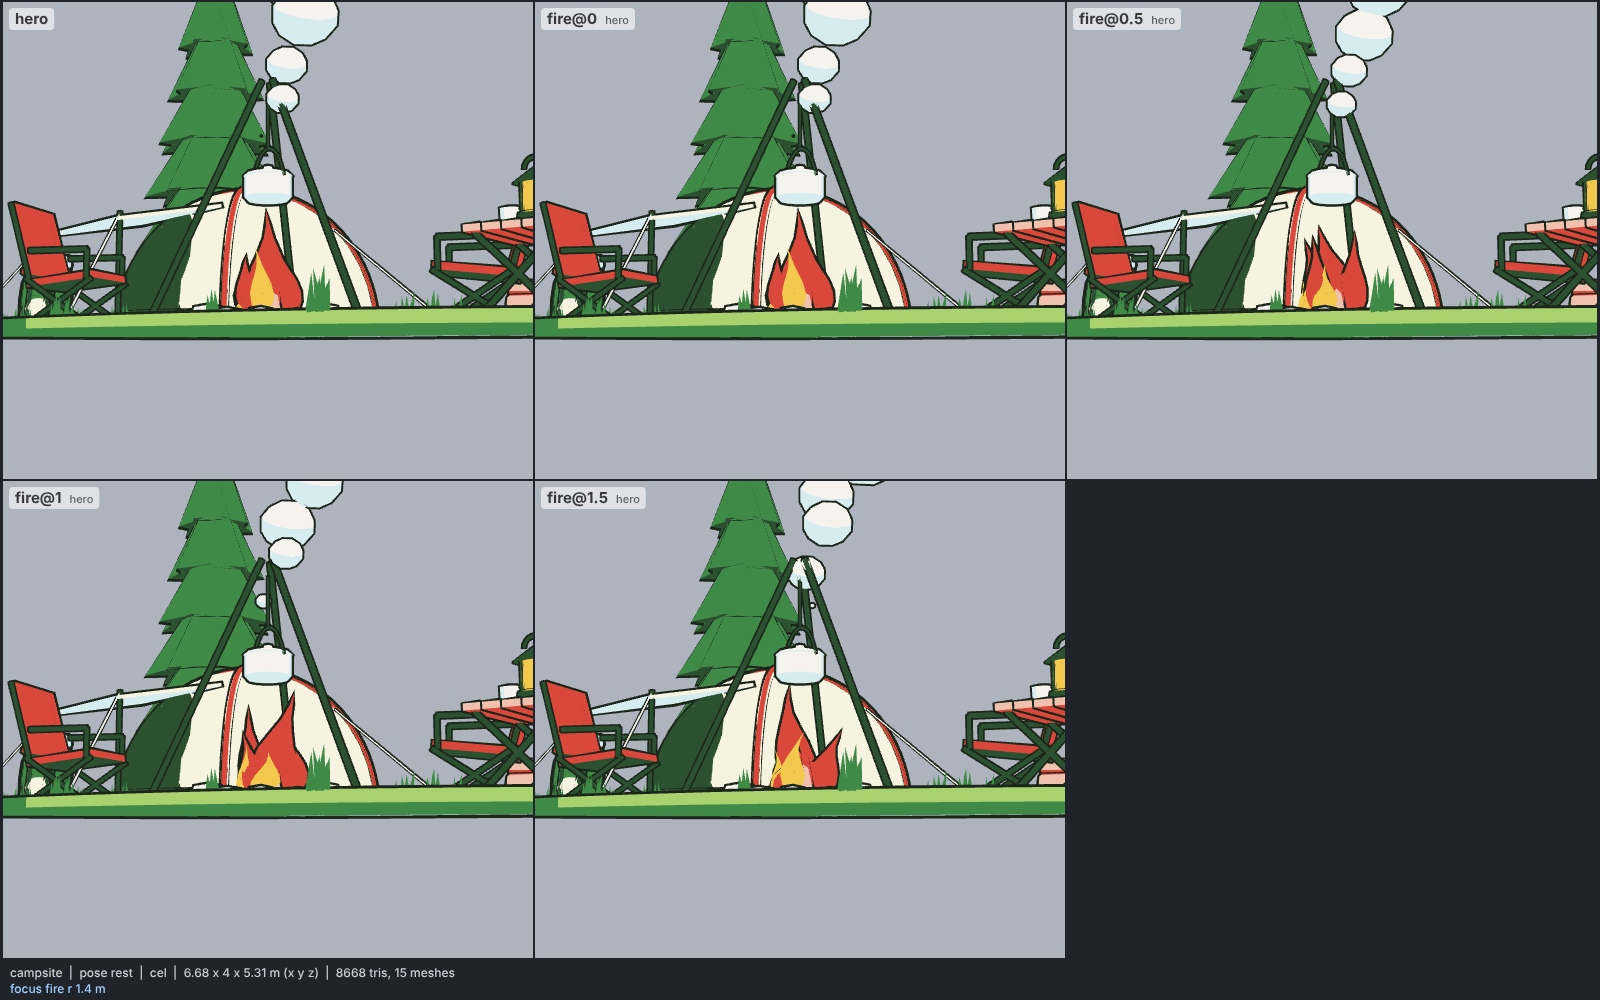
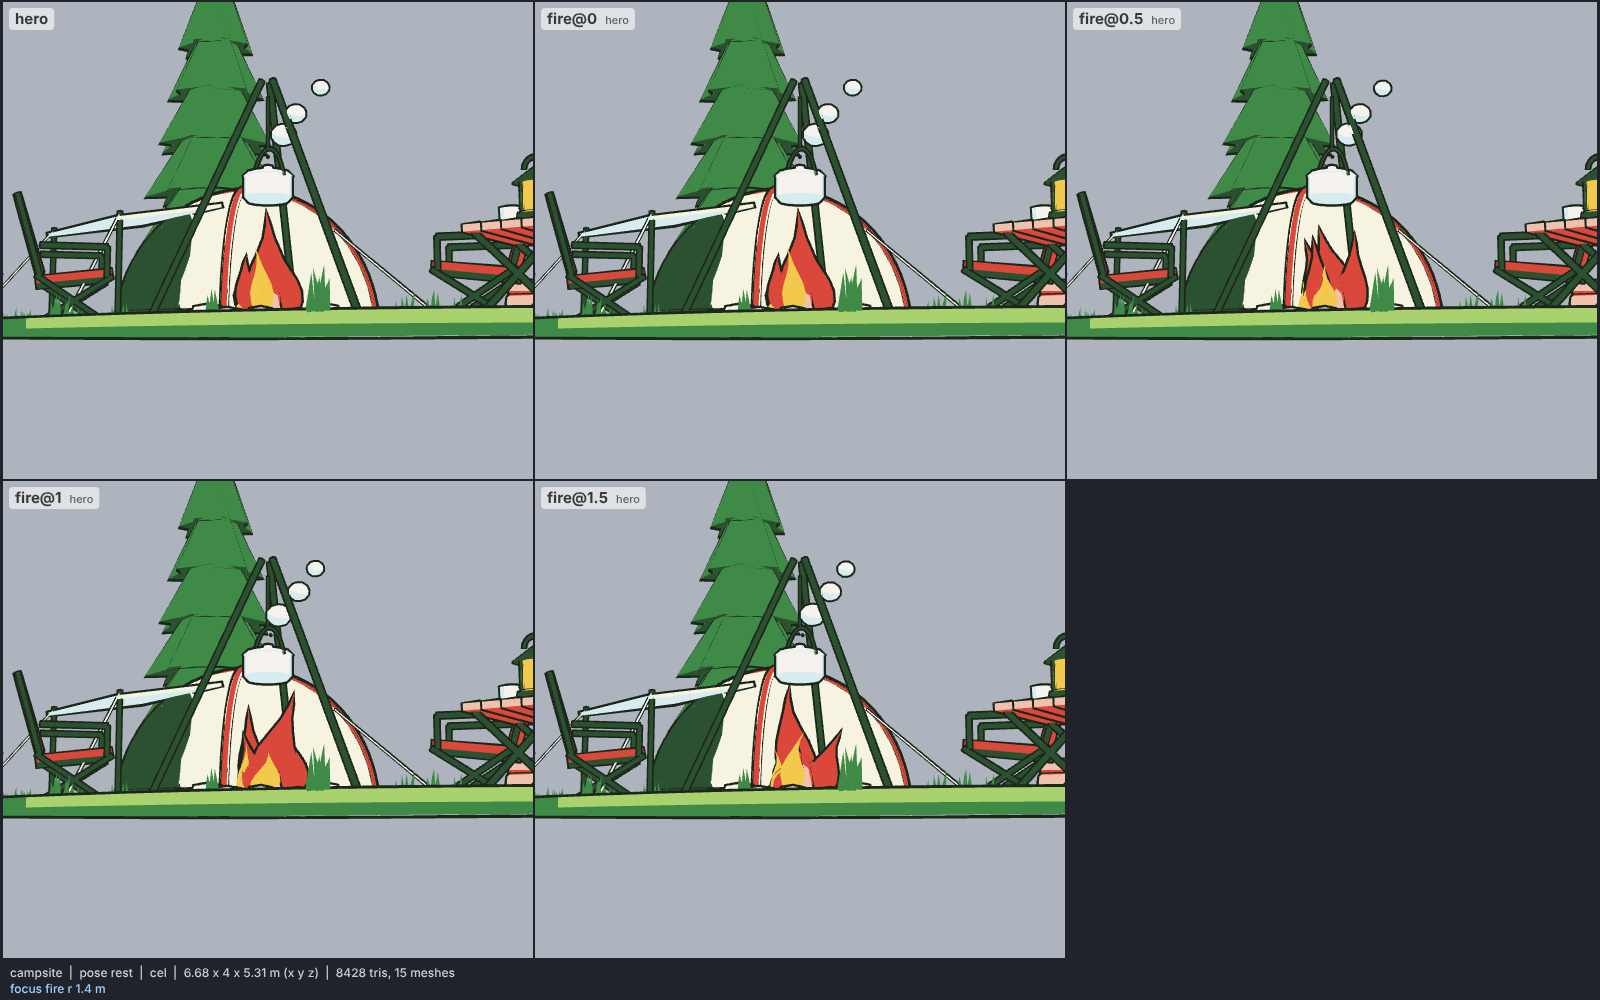
campsite: small drifting smoke, backpack visible in hero
Smoke is now four small puffs that shrink and drift sideways, topping
out just above the tent ridge. The left chair is turned a little and
the backpack moved out from behind it so it reads in the hero view.

Claude-Session: https://claude.ai/code/session_01RarBCdt4E1fNHHaUKaW5GL

diff --git a/models/campsite.js b/models/campsite.js
@@ -13,7 +13,7 @@
 //   TENT    a dome (ellipsoid cap, 2.1 m across, 1.15 m high), two red poles crossing over it, a dark doorway patch on
 //           its front, the door flap propped out as an awning on two poles, guy lines to pegs.
 //   FIRE    eleven stones in a ring, four logs in a teepee, flame tongues (red outside, yellow core in front), an iron
-//           tripod with a chain and a pot. Smoke puffs rise above the pot.
+//           tripod with a chain and a pot. Four small smoke puffs drift sideways above the pot, shrinking as they rise.
 //   CAMP    two low folding chairs (sling seat and back on X legs) facing the fire, a folding table (wood slats, X legs)
 //           with two mugs and a lantern, a firewood stack (3-2-1 logs), a backpack by the awning.
 //   PINES   trunks with stacked 8-point star cones, the anime pine silhouette.
@@ -21,8 +21,8 @@
 // 0.68 m; table 0.62 x 0.42 x 0.38 m; pines 4.0 m and 3.3 m (the top of the set, meta.height = 4.0).
 // Options: build(THREE, kit, colors, { height }): scales the whole set uniformly so the tall pine's top is `height`.
 // Clip: fire (2 s loop, pose("fire@0.5")): the flame and smoke meshes are rewritten per frame from their rest vertices
-// (flames sway and stretch by height along the tongue, smoke puffs rise, drift and swell, then shrink away). Integer
-// frequencies over 2 s, so the loop closes.
+// (flames sway and stretch by height along the tongue; four small smoke puffs rise to about the tent ridge, drifting
+// sideways and shrinking). Integer frequencies over 2 s, so the loop closes.
 // Script: meadow (greens, pale sky, red accent, yellow practical; no brown, so wood is skin over accent as tree-pine).
 // Two-tone pairs (base / shade): grass line #a9d16e / iris #3f8a47; tufts iris flat; needles iris #3f8a47 / hair
 // #2c5131 (also the backpack); wood skin #f0c2ae / accent #d9483b; canvas moon #f7f3e1 / sky #d7ecef (tent, awning,
@@ -321,7 +321,7 @@ export function build(THREE, kit, colors = meta.colors, opts = {}) {
   tongue("core", F.x - 0.03, F.z + 0.14, 0.075, 0.27, 0.85);
 
   // ---------- smoke puffs ----------
-  const PUFFS = 7;
+  const PUFFS = 4;
   const puffGeo = new THREE.IcosahedronGeometry(1, 1);
   for (let k = 0; k < PUFFS; k++) {
     owner = 1000 + k;
@@ -351,7 +351,7 @@ export function build(THREE, kit, colors = meta.colors, opts = {}) {
   }
   const face = (x, z) => Math.atan2(F.x - x, F.z - z);
   chair(1.5, -0.1, face(1.5, -0.1));
-  chair(-0.45, 1.3, face(-0.45, 1.3));
+  chair(-0.3, 1.4, face(-0.3, 1.4) + 0.35); // turned a little, opening the view to the backpack in hero
 
   // ---------- table, mugs, lantern ----------
   {
@@ -402,7 +402,7 @@ export function build(THREE, kit, colors = meta.colors, opts = {}) {
 
   // ---------- backpack ----------
   {
-    const BX = -2.25, BZ = 0.75, yaw = 0.7, lean = -0.12;
+    const BX = -2.7, BZ = 1.2, yaw = 0.7, lean = -0.12;
     const P = M(BX, G, BZ, lean, yaw, 0);
     geoM("needle", (() => {
       const g = new THREE.SphereGeometry(1, 12, 8);
@@ -527,8 +527,8 @@ export function build(THREE, kit, colors = meta.colors, opts = {}) {
         const i = v * 3, k = L.o[v] - 1000;
         const u = (((t / PER + k / PUFFS) % 1) + 1) % 1;
         const sm = (a, b, x) => { const q = Math.min(1, Math.max(0, (x - a) / (b - a))); return q * q * (3 - 2 * q); };
-        const s = (0.05 + 0.3 * u) * (0.85 + 0.3 * ((k * 0.618) % 1)) * sm(0, 0.12, u) * (1 - sm(0.72, 1, u));
-        const cx = F.x + 0.6 * u ** 1.4 + 0.1 * Math.sin(TAU * u * 2 + k), cy = G + 1.12 + 1.6 * u, cz = F.z - 0.25 * u + 0.05 * Math.cos(TAU * u + k);
+        const s = 0.085 * (1 - 0.6 * u) * sm(0, 0.15, u) * (1 - sm(0.8, 1, u)); // small puffs, shrinking as they rise
+        const cx = F.x + 0.45 * u ** 1.2 + 0.03 * Math.sin(TAU * u + k), cy = G + 1.0 + 0.48 * u, cz = F.z - 0.15 * u;
         P3[i] = cx + L.p[i] * s;
         P3[i + 1] = cy + L.p[i + 1] * s * 0.85;
         P3[i + 2] = cz + L.p[i + 2] * s;
